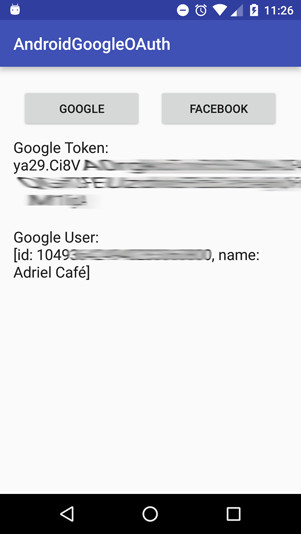
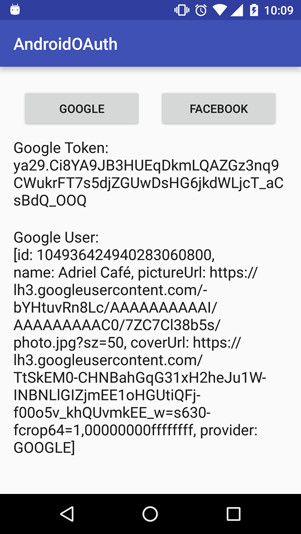
0.9
Get email, profile url and cover url from authenticated user

diff --git a/lib/src/main/java/cafe/adriel/androidoauth/oauth/FacebookOAuth.java b/lib/src/main/java/cafe/adriel/androidoauth/oauth/FacebookOAuth.java
@@ -1,6 +1,7 @@
 package cafe.adriel.androidoauth.oauth;
 
 import android.app.Activity;
+import android.util.Log;
 
 import com.github.scribejava.apis.FacebookApi;
 
@@ -10,7 +11,7 @@ import cafe.adriel.androidoauth.model.SocialUser;
 
 public final class FacebookOAuth extends BaseOAuth {
     private static final String SCOPE = "public_profile email";
-    private static final String GET_ACCOUNT_URL = "https://graph.facebook.com/v2.6/me";
+    private static final String GET_ACCOUNT_URL = "https://graph.facebook.com/v2.6/me?fields=name,email,picture,cover";
 
     private FacebookOAuth(Activity activity){
         super(activity, FacebookApi.instance(), SCOPE, GET_ACCOUNT_URL);
@@ -27,6 +28,20 @@ public final class FacebookOAuth extends BaseOAuth {
             SocialUser account = new SocialUser();
             account.setId(accountJson.getString("id"));
             account.setName(accountJson.getString("name"));
+            if(accountJson.has("email")) {
+                account.setEmail(accountJson.getString("email"));
+            }
+            if(accountJson.has("picture")) {
+                account.setPictureUrl(accountJson
+                        .getJSONObject("picture")
+                        .getJSONObject("data")
+                        .getString("url"));
+            }
+            if(accountJson.has("cover")) {
+                account.setCoverUrl(accountJson
+                        .getJSONObject("cover")
+                        .getString("source"));
+            }
             account.setProvider(OAuthProvider.FACEBOOK);
             return account;
         } catch (Exception e){

diff --git a/lib/src/main/java/cafe/adriel/androidoauth/model/SocialUser.java b/lib/src/main/java/cafe/adriel/androidoauth/model/SocialUser.java
@@ -1,13 +1,15 @@
 package cafe.adriel.androidoauth.model;
 
 import java.io.Serializable;
-import java.security.Provider;
 
 import cafe.adriel.androidoauth.oauth.OAuthProvider;
 
 public class SocialUser implements Serializable {
     private String id;
     private String name;
+    private String email;
+    private String pictureUrl;
+    private String coverUrl;
     private OAuthProvider provider;
 
     public String getId() {
@@ -26,6 +28,30 @@ public class SocialUser implements Serializable {
         this.name = name;
     }
 
+    public String getEmail() {
+        return email;
+    }
+
+    public void setEmail(String email) {
+        this.email = email;
+    }
+
+    public String getPictureUrl() {
+        return pictureUrl;
+    }
+
+    public void setPictureUrl(String pictureUrl) {
+        this.pictureUrl = pictureUrl;
+    }
+
+    public String getCoverUrl() {
+        return coverUrl;
+    }
+
+    public void setCoverUrl(String coverUrl) {
+        this.coverUrl = coverUrl;
+    }
+
     public OAuthProvider getProvider() {
         return provider;
     }
@@ -36,6 +62,8 @@ public class SocialUser implements Serializable {
 
     @Override
     public String toString(){
-        return String.format("[id: %s, name: %s, provider: %s]", id, name, provider);
+        return String.format(
+                "[id: %s, name: %s, pictureUrl: %s, coverUrl: %s, provider: %s]",
+                id, name, pictureUrl, coverUrl, provider);
     }
 }

diff --git a/app/src/main/java/cafe/adriel/androidoauth/example/MainActivity.java b/app/src/main/java/cafe/adriel/androidoauth/example/MainActivity.java
@@ -29,9 +29,9 @@ public class MainActivity extends AppCompatActivity {
             .setClientSecret(Credentials.GOOGLE_CLIENT_SECRET)
             .setTokenCallback(new OnGetTokenCallback() {
                 @Override
-                public void onSuccess(String token, SocialUser account) {
+                public void onSuccess(String token, SocialUser user) {
                     tokenView.setText("Google Token: \n" + token);
-                    accountView.setText("Google User: \n" + account+"");
+                    accountView.setText("Google User: \n" + user+"");
                 }
                 @Override
                 public void onError(Exception error) {
@@ -48,9 +48,9 @@ public class MainActivity extends AppCompatActivity {
             .setRedirectUri(Credentials.FACEBOOK_REDIRECT_URI)
             .setTokenCallback(new OnGetTokenCallback() {
                 @Override
-                public void onSuccess(String token, SocialUser account) {
+                public void onSuccess(String token, SocialUser user) {
                     tokenView.setText("Facebook Token: \n" + token);
-                    accountView.setText("Facebook User: \n" + account+"");
+                    accountView.setText("Facebook User: \n" + user+"");
                 }
                 @Override
                 public void onError(Exception error) {

diff --git a/lib/src/main/java/cafe/adriel/androidoauth/oauth/GoogleOAuth.java b/lib/src/main/java/cafe/adriel/androidoauth/oauth/GoogleOAuth.java
@@ -34,6 +34,23 @@ public final class GoogleOAuth extends BaseOAuth {
             SocialUser account = new SocialUser();
             account.setId(accountJson.getString("id"));
             account.setName(accountJson.getString("displayName"));
+            if(accountJson.has("emails")) {
+                account.setEmail(accountJson
+                        .getJSONArray("emails")
+                        .getJSONObject(0)
+                        .getString("value"));
+            }
+            if(accountJson.has("image")){
+                account.setPictureUrl(accountJson
+                        .getJSONObject("image")
+                        .getString("url"));
+            }
+            if(accountJson.has("cover")) {
+                account.setCoverUrl(accountJson
+                        .getJSONObject("cover")
+                        .getJSONObject("coverPhoto")
+                        .getString("url"));
+            }
             account.setProvider(OAuthProvider.GOOGLE);
             return account;
         } catch (Exception e){

diff --git a/app/src/main/java/cafe/adriel/androidoauth/example/Credentials.java b/app/src/main/java/cafe/adriel/androidoauth/example/Credentials.java
@@ -1,10 +1,10 @@
 package cafe.adriel.androidoauth.example;
 
 public class Credentials {
-    public static final String GOOGLE_CLIENT_ID = "YOUR_CLIENT_ID";
-    public static final String GOOGLE_CLIENT_SECRET = "YOUR_CLIENT_SECRET";
+    public static final String GOOGLE_CLIENT_ID = "940891630461-uh38ng1a01tfkmu926g5f4el56h9hock.apps.googleusercontent.com";
+    public static final String GOOGLE_CLIENT_SECRET = "oxvq5lNSJvdM_zwZgc_appQV";
 
-    public static final String FACEBOOK_APP_ID = "YOUR_CLIENT_ID";
-    public static final String FACEBOOK_APP_SECRET = "YOUR_CLIENT_SECRET";
-    public static final String FACEBOOK_REDIRECT_URI = "YOUR_REDIRECT_URI";
+    public static final String FACEBOOK_APP_ID = "1540807289473122";
+    public static final String FACEBOOK_APP_SECRET = "236e282277e8ee3150c447cf0307bcb3";
+    public static final String FACEBOOK_REDIRECT_URI = "http://demo.xarx.rocks/";
 }

diff --git a/lib/src/main/java/cafe/adriel/androidoauth/callback/OnGetTokenCallback.java b/lib/src/main/java/cafe/adriel/androidoauth/callback/OnGetTokenCallback.java
@@ -4,7 +4,7 @@ import cafe.adriel.androidoauth.model.SocialUser;
 
 public interface OnGetTokenCallback {
 
-    void onSuccess(String token, SocialUser account);
+    void onSuccess(String token, SocialUser user);
 
     void onError(Exception error);
 

diff --git a/README.md b/README.md
@@ -5,6 +5,8 @@
 # AndroidOAuth
 > A simple way to authenticate with **Google** and **Facebook** using **OAuth 2.0** in Android
 
+I've made this lib in a hurry to my startup. My plan is to improve over time and add support to others social networks. All help are welcome! 
+
 ## Example
 ![Consent WebView](https://raw.githubusercontent.com/adrielcafe/AndroidOAuth/master/screenshots/consent-webview.jpg) ![Token and User](https://raw.githubusercontent.com/adrielcafe/AndroidOAuth/master/screenshots/token-user.jpg)
 
@@ -16,9 +18,9 @@ GoogleOAuth.Builder(this)
     .setClientSecret(Credentials.GOOGLE_CLIENT_SECRET)
     .setTokenCallback(new OnGetTokenCallback() {
         @Override
-        public void onSuccess(String token, SocialUser account) {
+        public void onSuccess(String token, SocialUser user) {
             Log.d("Google Token", token);
-            Log.d("Google User", account+"");
+            Log.d("Google User", user+"");
         }
         @Override
         public void onError(Exception error) {
@@ -37,9 +39,9 @@ FacebookOAuth.Builder(this)
     .setRedirectUri(Credentials.FACEBOOK_REDIRECT_URI)
     .setTokenCallback(new OnGetTokenCallback() {
         @Override
-        public void onSuccess(String token, SocialUser account) {
+        public void onSuccess(String token, SocialUser user) {
             Log.d("Facebook Token", token);
-            Log.d("Facebook User", account+"");
+            Log.d("Facebook User", user+"");
         }
         @Override
         public void onError(Exception error) {
@@ -59,12 +61,14 @@ repositories {
 }
 
 dependencies {
-  compile 'com.github.adrielcafe:AndroidOAuth:0.8'
+  compile 'com.github.adrielcafe:AndroidOAuth:0.9'
 }
 ```
 
 ## TODO
-* `logout()` method to revoke token
+- [ ] Twitter support
+- [ ] `logout()` method to revoke token
+- [X] Get `email`, `profileUrl` and `coverUrl` from authenticated user
 
 ## Dependencies
 * [ScribeJava](https://github.com/scribejava/scribejava)
